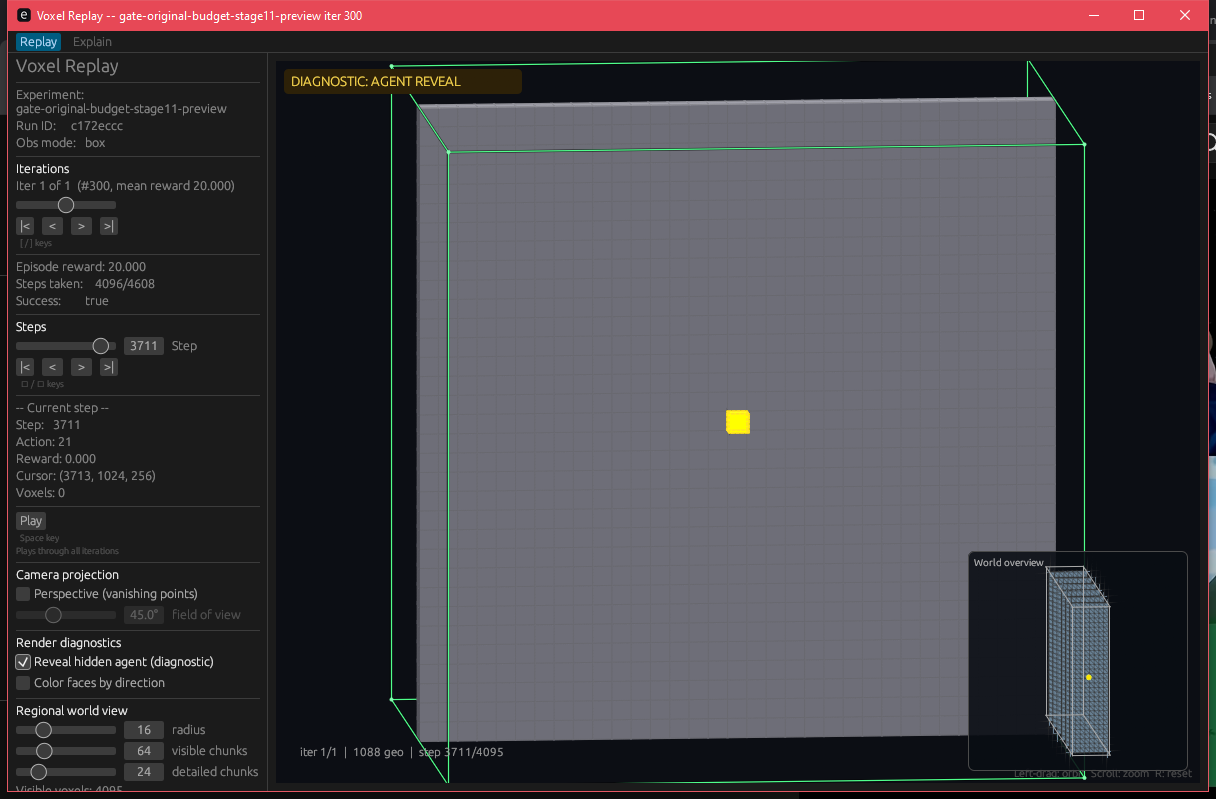
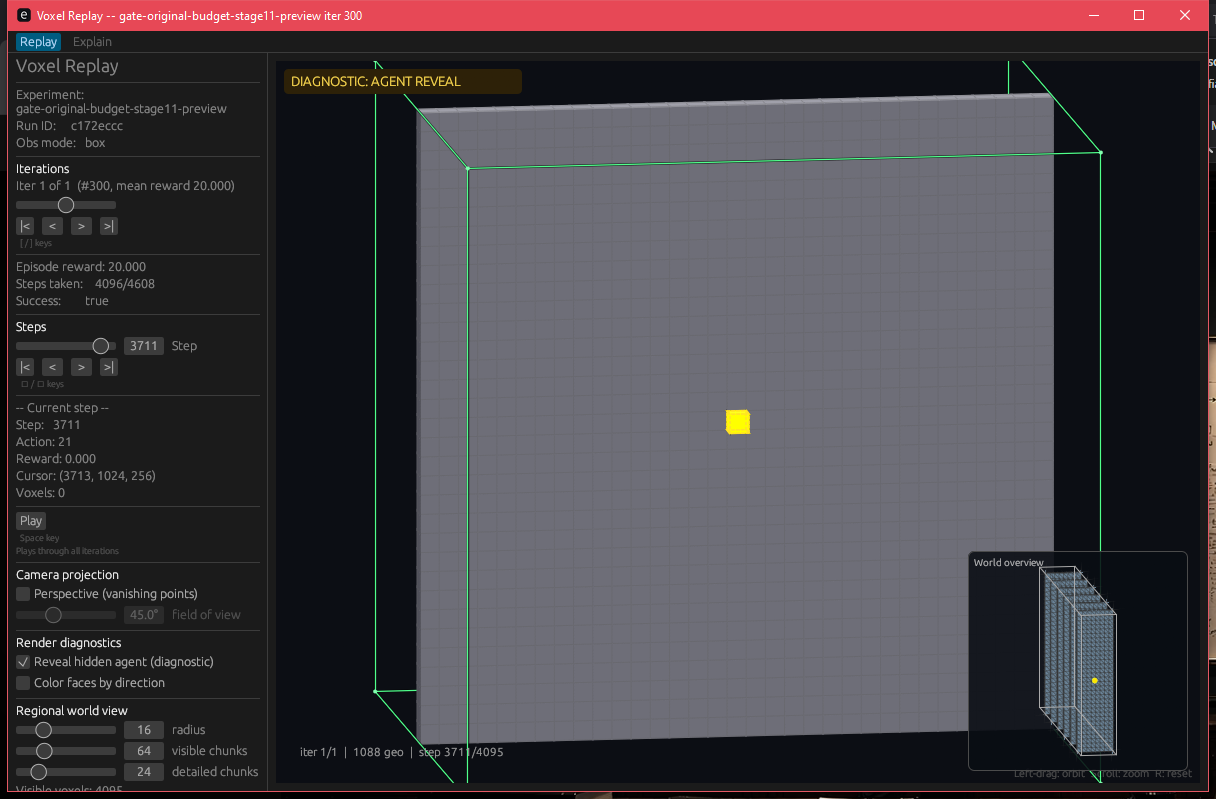
Refresh four pointer-free visibility proofs

diff --git a/usage/experiments/replay_visibility_428/README.md b/usage/experiments/replay_visibility_428/README.md
@@ -9,7 +9,7 @@ The fixed replayer always uses physical depth ordering. Its agent is a filled ye
 | Agent in front of wall; step 3711, cursor `(3713,1024,256)` | ![Filled agent is visible](after.png) | ![Visible agent with diagnostic badge](agent-front-diagnostic.png) |
 | Wall in front of agent; step 3713, cursor `(3715,1024,256)` | ![Opaque wall hides agent](wall-front-normal.png) | ![Dashed location overlay shows agent while wall remains visible](wall-front-diagnostic.png) |
 
-These are actual Windows GUI captures, not illustrations. In the fixed 81×81-pixel region around the agent, the four states respectively contain **523**, **561**, **0**, and **257** yellow pixels. The checked states both contain the diagnostic badge; the unchecked states do not. The wall-front normal frame leaves the final gate aperture visible but hides the agent completely: **zero strong or muted yellow pixels** remain in that region. Opaque wall-face edges seal anti-aliased tile seams while a separate subtle grid remains visible. See [capture.json](capture.json) for hashes, exact source and trajectory identities, and measured counts. Three unit tests cover when the trail control is offered; the full `theseo-core` test suite passes.
+These are actual Windows GUI captures, not illustrations. The capture script parks the mouse pointer outside the window before each screenshot. In the fixed 81×81-pixel region around the agent, the four states respectively contain **556**, **563**, **0**, and **262** yellow pixels. The checked states both contain the diagnostic badge; the unchecked states do not. The wall-front normal frame leaves the final gate aperture visible but hides the agent completely: **zero strong or muted yellow pixels** remain in that region. Opaque wall-face edges seal anti-aliased tile seams while a separate subtle grid remains visible. See [capture.json](capture.json) for hashes, exact source and trajectory identities, and measured counts. Three unit tests cover when the trail control is offered; the full `theseo-core` test suite passes.
 
 To reproduce on Windows at 100% display scaling, build the replayer from source commit `c422b17a1d122596e1ce7a6d1b82d5aeaa1e02d8` or later. Run both views against the frozen PR #410 trajectory:
 
